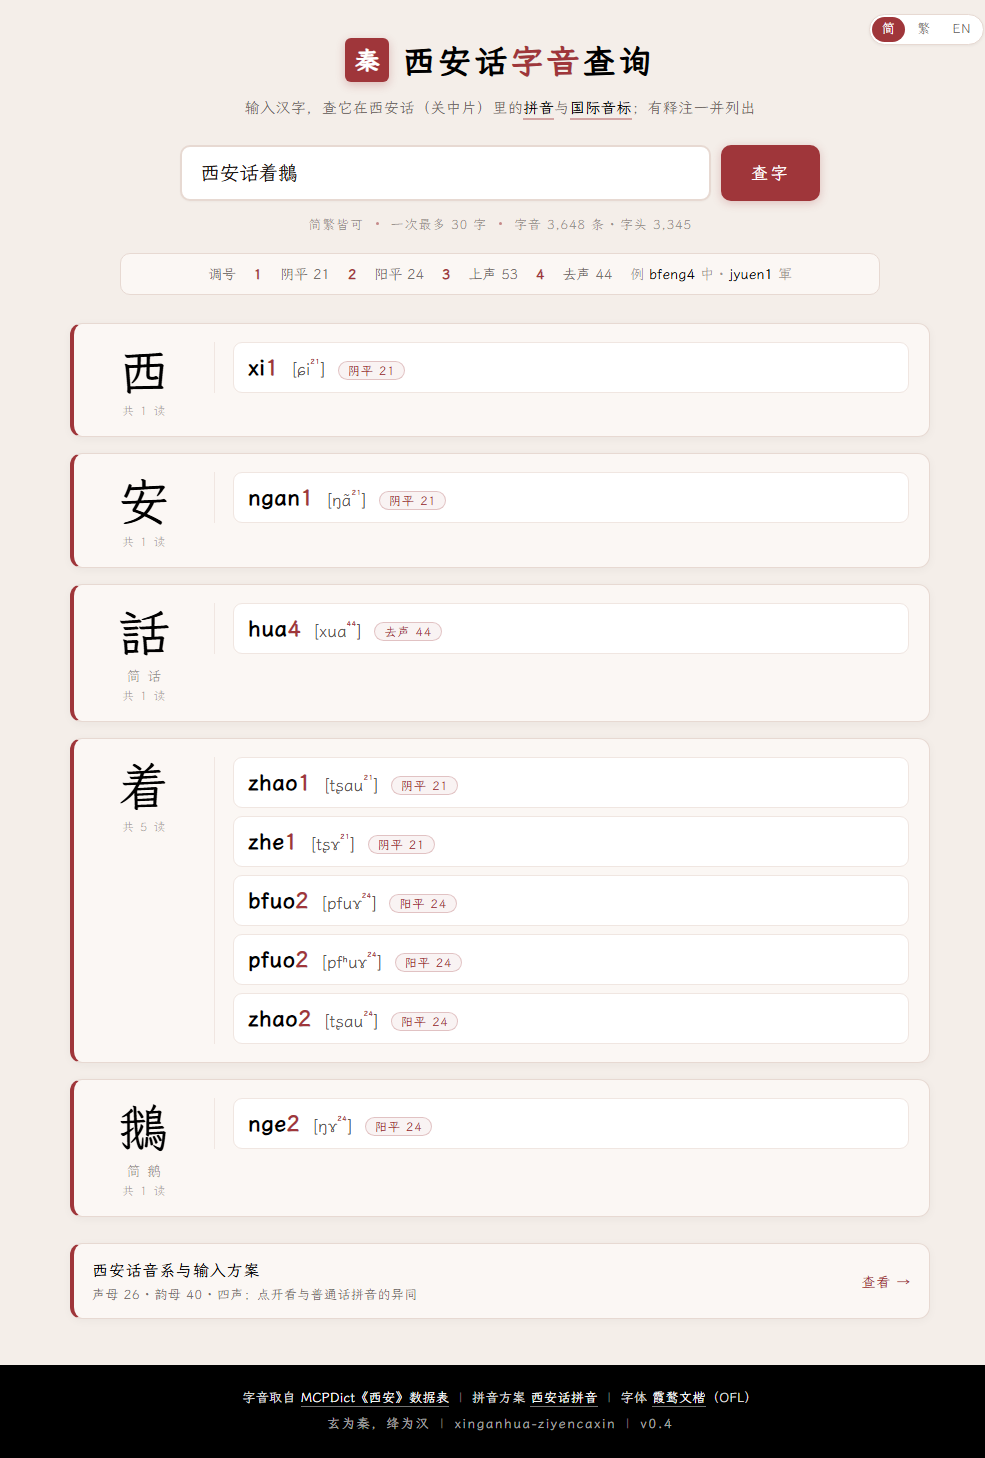
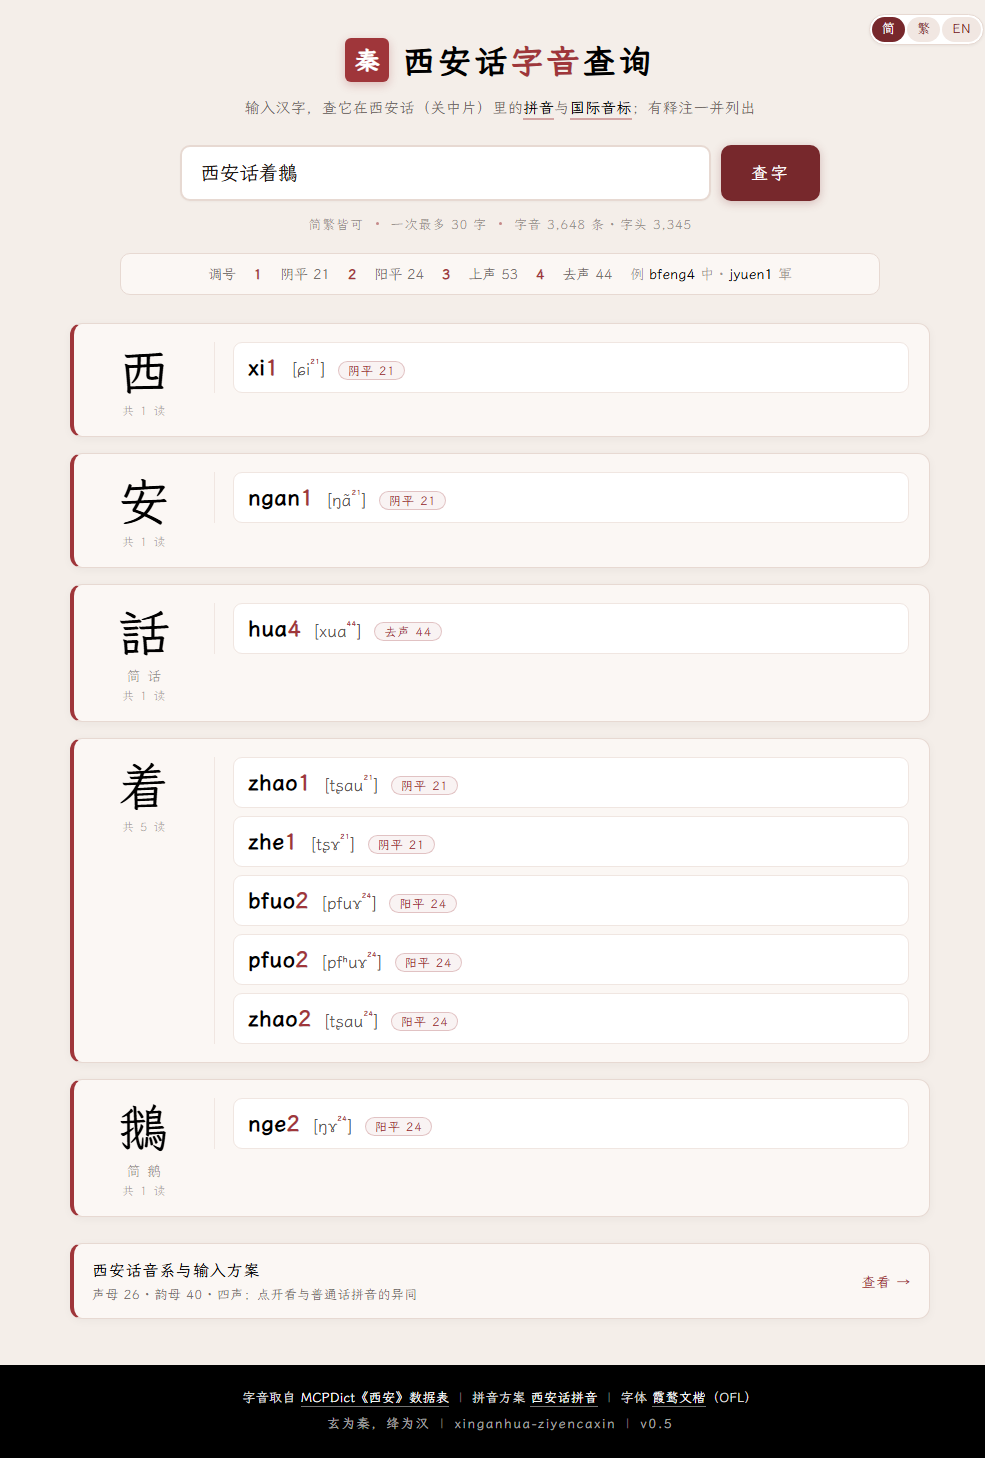
交互色反转：控件常态深、悬停变浅
原来 hover 是把颜色压深（#9F363A → #7E2A2E），与「常态深、悬停浅」的预期相反。
现在查字按钮、示例字、语言切换都是常态深绛红 #77282C，悬停提亮到 #9F363A，
按下再提亮一档；音系入口与关闭按钮的 hover 也改成整体提亮。版本 v0.5。

Changed region(s): [[0.731, 0.0926, 0.8528, 0.1543], [0.8832, 0.0, 1.0, 0.0309]]

diff --git a/index.html b/index.html
@@ -44,11 +44,12 @@ body{
 }
 .lang-switcher button{
   font-family:var(--serif);font-size:.8em;line-height:1;
-  padding:6px 10px;border:0;border-radius:999px;background:none;color:var(--muted);
+  padding:6px 10px;border:0;border-radius:999px;background:#F1E7E2;color:#7E2A2E;
   cursor:pointer;letter-spacing:.04em;transition:background .15s,color .15s;
 }
-.lang-switcher button:hover{color:var(--crimson)}
-.lang-switcher button[aria-pressed="true"]{background:var(--crimson);color:var(--paper)}
+.lang-switcher button:hover{background:#FBF3F1;color:var(--crimson)}
+.lang-switcher button[aria-pressed="true"]{background:#77282C;color:var(--paper)}
+.lang-switcher button[aria-pressed="true"]:hover{background:#8C3236;color:var(--paper)}
 
 /* ───────── 页头 ───────── */
 .site-header{position:relative;padding:38px 20px 0;text-align:center}
@@ -77,13 +78,13 @@ h1 .accent{color:var(--crimson)}
 #charInput:focus{border-color:var(--crimson);box-shadow:0 0 0 4px rgba(159,54,58,.13)}
 #searchBtn{
   padding:13px 28px;font-family:var(--serif);font-size:1.05em;letter-spacing:.16em;
-  color:var(--paper);background:var(--crimson);border:2px solid var(--crimson);
+  color:var(--paper);background:#77282C;border:2px solid #77282C;
   border-radius:10px;cursor:pointer;white-space:nowrap;
-  box-shadow:0 2px 10px rgba(159,54,58,.26);
+  box-shadow:0 2px 10px rgba(119,40,44,.26);
   transition:background .15s,border-color .15s,box-shadow .15s;
 }
-#searchBtn:hover{background:#7E2A2E;border-color:#7E2A2E}
-#searchBtn:active{background:#6C2427;border-color:#6C2427}
+#searchBtn:hover{background:var(--crimson);border-color:var(--crimson)}
+#searchBtn:active{background:#B04B4F;border-color:#B04B4F}
 #searchBtn:focus-visible{outline:3px solid rgba(159,54,58,.35);outline-offset:2px}
 #searchBtn:disabled{opacity:.55;cursor:progress}
 
@@ -161,12 +162,12 @@ main{flex:1 0 auto}
 .chips{display:flex;flex-wrap:wrap;gap:9px;justify-content:center;margin-top:16px}
 .chip{
   font-family:var(--serif);font-size:1em;letter-spacing:.04em;
-  padding:7px 16px;background:var(--paper);color:var(--text);
-  border:1px solid var(--line);border-radius:999px;cursor:pointer;
+  padding:7px 16px;background:#77282C;color:var(--paper);
+  border:1px solid #77282C;border-radius:999px;cursor:pointer;
   transition:border-color .15s,color .15s,background .15s,transform .1s;
 }
-.chip:hover{border-color:var(--crimson);color:var(--crimson);background:#FBF3F1}
-.chip:active{transform:translateY(1px)}
+.chip:hover{background:var(--crimson);border-color:var(--crimson);color:var(--paper)}
+.chip:active{transform:translateY(1px);background:#B04B4F;border-color:#B04B4F}
 #results:not(:empty) ~ .empty{display:none}
 
 /* 音系入口 */
@@ -177,7 +178,7 @@ main{flex:1 0 auto}
   border-radius:12px;cursor:pointer;box-shadow:0 2px 10px rgba(28,21,18,.04);
   transition:background .15s,border-color .15s;
 }
-.scheme-bar:hover{background:#FDF9F6;border-color:#DFCCC3}
+.scheme-bar:hover{background:#FFFDFC;border-color:#F0E3DC}
 .scheme-bar:focus-visible{outline:3px solid rgba(159,54,58,.28);outline-offset:2px}
 .scheme-title{font-size:1em;letter-spacing:.05em;color:var(--ink)}
 .scheme-desc{margin-top:4px;font-size:.82em;color:var(--muted);letter-spacing:.02em}
@@ -212,7 +213,8 @@ footer .sig{letter-spacing:.1em;color:rgba(255,255,255,.66)}
   border:0;background:none;font-size:1.6em;line-height:1;color:var(--crimson);
   cursor:pointer;padding:0 4px;border-radius:6px;
 }
-.modal-close:hover{background:#F7ECEA}
+.modal-close{background:#F7ECEA}
+.modal-close:hover{background:#FDF7F5}
 .modal-body{padding:6px 22px 28px;overflow:auto;-webkit-overflow-scrolling:touch}
 .modal-body h3{
   display:flex;align-items:center;gap:9px;
@@ -325,7 +327,7 @@ footer .sig{letter-spacing:.1em;color:rgba(255,255,255,.66)}
 
 <footer>
   <div id="tFooter">字音取自 <a href="https://github.com/osfans/MCPDict" target="_blank" rel="noopener">MCPDict《西安》数据表</a><span class="sep">|</span>拼音方案 <a href="https://github.com/SiqYin/xinganhua-fuvufa" target="_blank" rel="noopener">西安话拼音</a><span class="sep">|</span>字体 <a href="https://github.com/lxgw/LxgwWenKai" target="_blank" rel="noopener">霞鹜文楷</a>（OFL）</div>
-  <div class="sig" id="tSig">玄为秦，绛为汉<span class="sep">|</span>xinganhua-ziyencaxin<span class="sep">|</span>v0.4</div>
+  <div class="sig" id="tSig">玄为秦，绛为汉<span class="sep">|</span>xinganhua-ziyencaxin<span class="sep">|</span>v0.5</div>
 </footer>
 
 <div class="modal" id="modal" aria-hidden="true">
@@ -424,7 +426,7 @@ footer .sig{letter-spacing:.1em;color:rgba(255,255,255,.66)}
       document.getElementById('tSchemeMore').textContent = d.schemeMore || '';
       document.getElementById('tFooter').innerHTML = d.footerLine || '';
       document.getElementById('tSig').innerHTML = esc(d.sig || '')
-        + '<span class="sep">|</span>xinganhua-ziyencaxin<span class="sep">|</span>v0.4';
+        + '<span class="sep">|</span>xinganhua-ziyencaxin<span class="sep">|</span>v0.5';
       modalTitle.textContent = d.modalTitle || '';
       modalClose.setAttribute('aria-label', d.modalClose || 'Close');
       if (modal.classList.contains('open')) buildModal();
